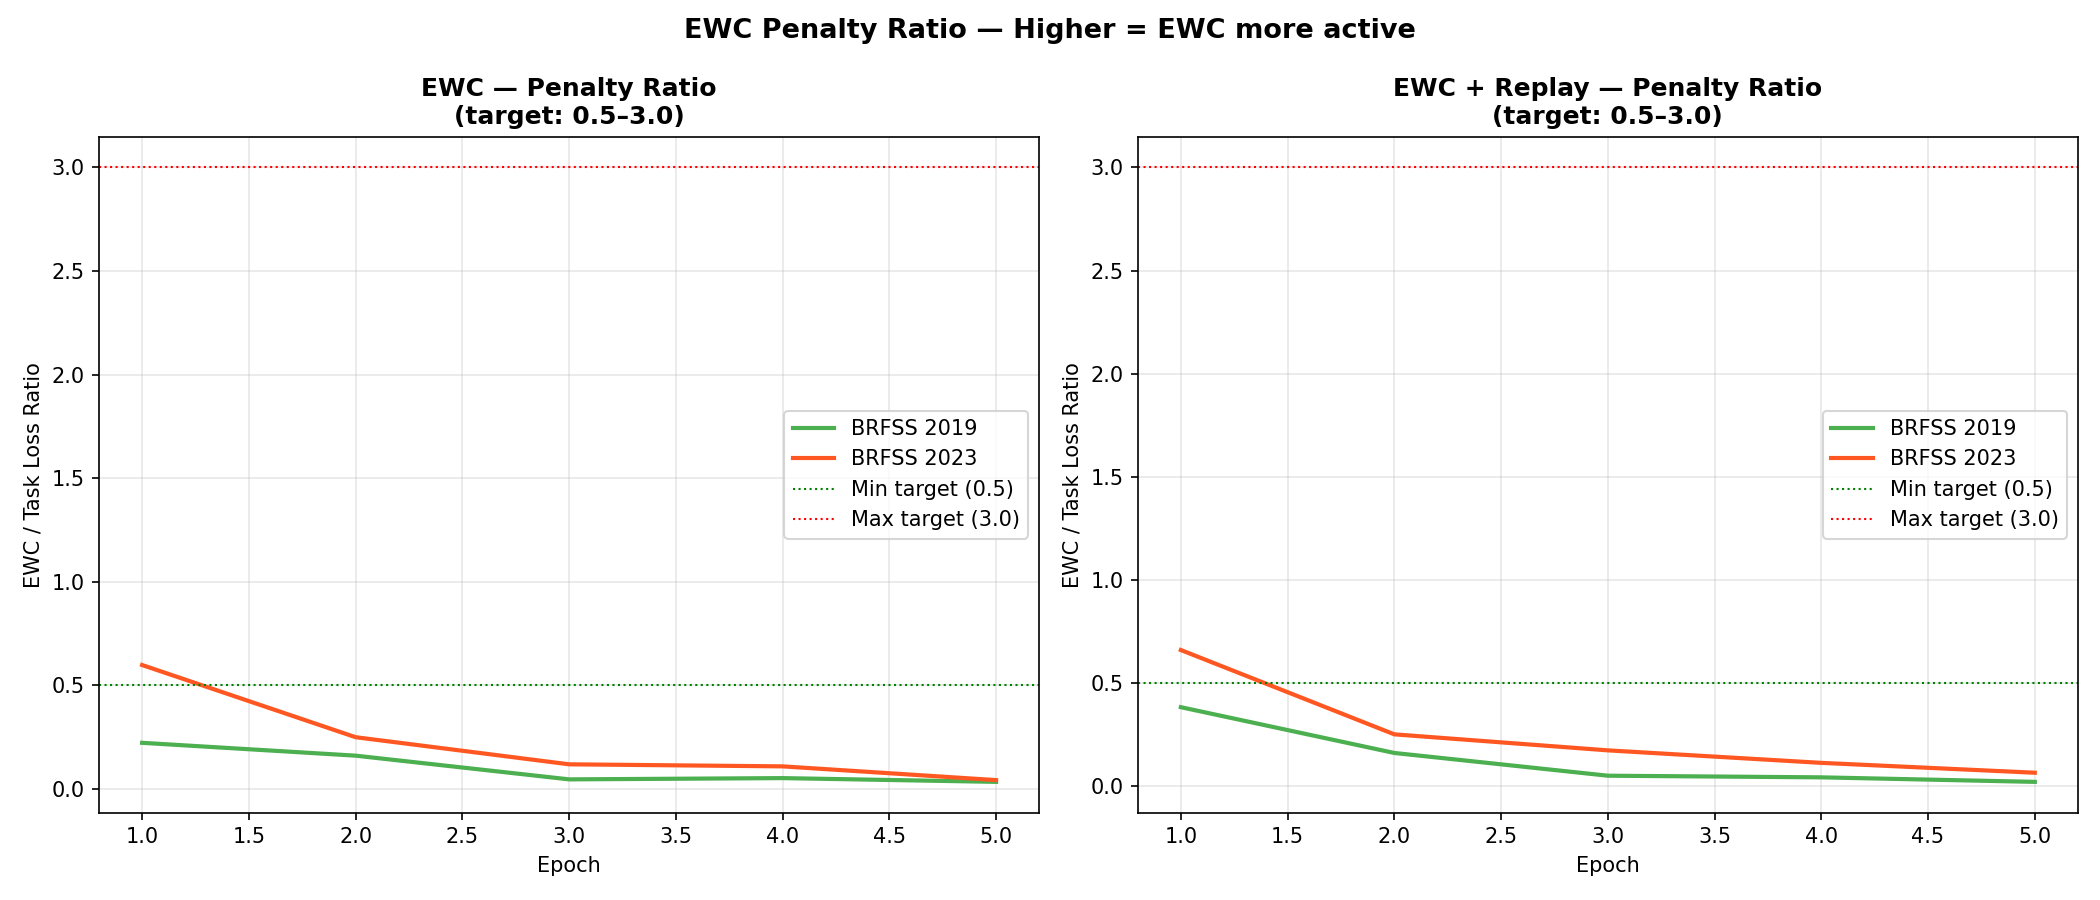
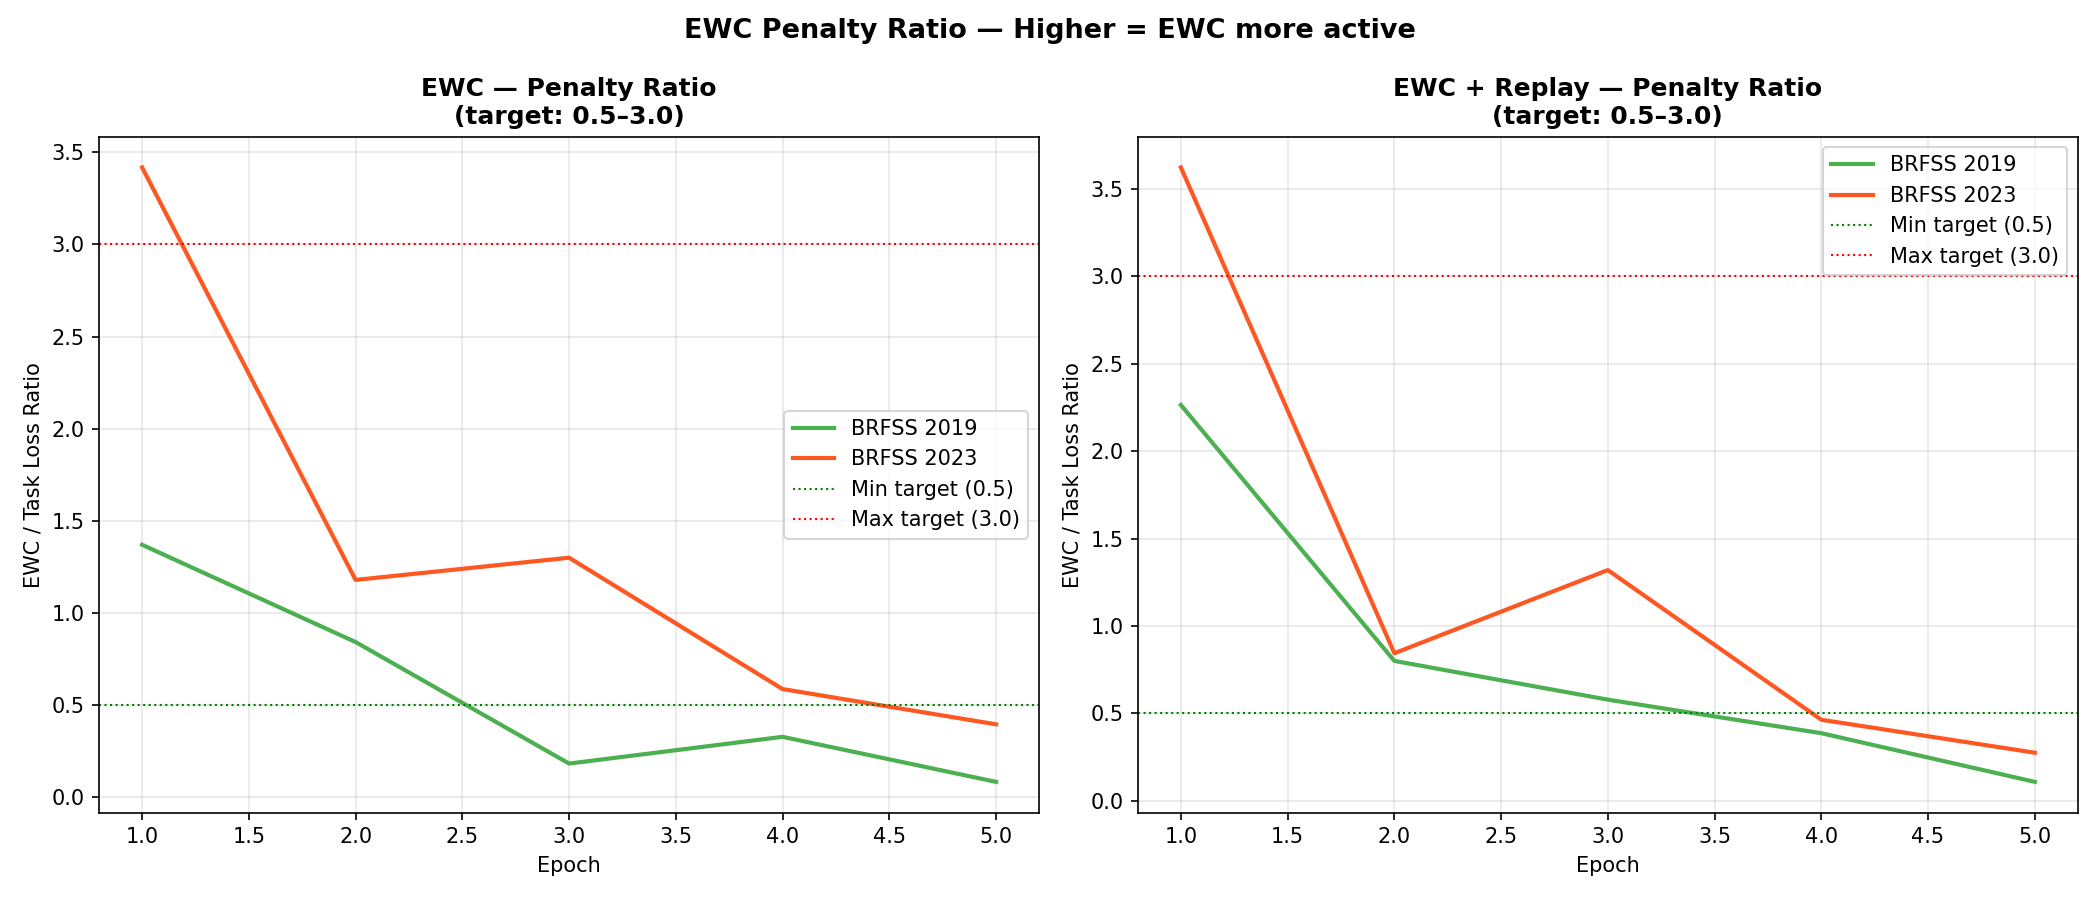
Re run with two lambda for teb and ft

diff --git a/main.py b/main.py
@@ -121,16 +121,23 @@ EPOCHS             = 5
 LR                 = 0.0015  # bumped alongside BATCH_SIZE (64->256, ~4x);
                             # Adam-family optimizers don't need full linear
                             # scaling like SGD, so ~1.5x rather than ~4x
-LAMBDA_EWC         = 500    # RESET from 500 — ewc.py's Fisher normalisation
-                          # changed from dividing by the global MAX to the
-                          # global MEAN (see ewc.py). That makes typical
-                          # Fisher values ~1000s of times larger than
-                          # before, so the old LAMBDA_EWC=500 (calibrated
-                          # for the old scale) would now massively
-                          # overshoot. 1 is a conservative starting point,
-                          # not a tuned value — check
-                          # 14_ewc_penalty_ratio.png after a run (target
-                          # 0.5-3.0) and adjust from here.
+FT_LAMBDA_EWC      = 500    # FT-Transformer's EWC strength. Checked against
+                          # 14_ewc_penalty_ratio.png — this value keeps
+                          # FT-Transformer's penalty ratio in the 0.5-3.0
+                          # target band.
+TABNET_LAMBDA_EWC  = 3000   # TabNet's own EWC strength (NEW — separate from
+                          # FT-Transformer's). Using FT_LAMBDA_EWC's value
+                          # here left TabNet's penalty ratio sitting well
+                          # below the 0.5 floor almost the whole run (see
+                          # results/tabnet/14_ewc_penalty_ratio.png before
+                          # this change) — TabNet's Fisher values are on a
+                          # different numeric scale (different architecture:
+                          # BatchNorm + attention masks vs FT-Transformer's
+                          # LayerNorm + self-attention), so the same lambda
+                          # doesn't transfer between the two models. 3000 is
+                          # a starting point, not a tuned value — rerun and
+                          # check 14_ewc_penalty_ratio.png for TabNet lands
+                          # in 0.5-3.0, and adjust from here if not.
 BATCH_SIZE         = 256  # was 64 — larger batches tend to train
                           # transformers more stably; LR bumped above to match
 MAX_FISHER_SAMPLES = 5000
@@ -199,7 +206,8 @@ print(f"  Tasks          : {TASK_NAMES}")
 print(f"  Pos weights    : ({POS_WEIGHT_MODE}) " +
       ", ".join(f"{n}={w.item():.2f}" for n, w in zip(TASK_NAMES, pos_weights)))
 print(f"\n  Models to run  : FT-Transformer, TabNet")
-print(f"  Lambda EWC     : {LAMBDA_EWC} | Replay samples: {REPLAY_SAMPLES_PER_TASK}")
+print(f"  Lambda EWC     : FT-Transformer={FT_LAMBDA_EWC}, TabNet={TABNET_LAMBDA_EWC}"
+      f" | Replay samples: {REPLAY_SAMPLES_PER_TASK}")
 
 
 # ═══════════════════════════════════════════════════════════
@@ -209,7 +217,7 @@ print(f"  Lambda EWC     : {LAMBDA_EWC} | Replay samples: {REPLAY_SAMPLES_PER_TA
 # can be run once per model (FT-Transformer, then TabNet), each saving
 # its own CSVs and graphs to its own output_dir.
 # ═══════════════════════════════════════════════════════════
-def run_pipeline(model_name, make_model, output_dir):
+def run_pipeline(model_name, make_model, output_dir, lambda_ewc):
     """
     Run Phases A-E for one model and save all results under output_dir.
 
@@ -218,11 +226,14 @@ def run_pipeline(model_name, make_model, output_dir):
                  initialised model for this model type
     output_dir : folder this model's CSVs and graphs are saved to, so
                  the two models' results never overwrite each other
+    lambda_ewc  : this model's own EWC strength (NEW — used to be a single
+                 shared LAMBDA_EWC for every model; see FT_LAMBDA_EWC /
+                 TABNET_LAMBDA_EWC above for why that's now per-model)
 
     Returns a dict of this model's final numbers, used later for the
     side-by-side summary printed at the very end of the script.
     """
-    section(f"MODEL: {model_name}")
+    section(f"MODEL: {model_name} (lambda_ewc={lambda_ewc})")
 
     # ═══════════════════════════════════════════════════════════
     # PHASE A — SEQUENTIAL WITHOUT EWC
@@ -294,7 +305,7 @@ def run_pipeline(model_name, make_model, output_dir):
 
             print(f"\n  [EWC] Training on {name} (EWC protecting {i} previous year(s))...")
             ewc_model, h = train_ewc(ewc_model, train_loaders[i],
-                                      ewc_objects, LAMBDA_EWC, EPOCHS, LR,
+                                      ewc_objects, lambda_ewc, EPOCHS, LR,
                                       pos_weight=pos_weights[i],
                                       warmup_epochs=WARMUP_EPOCHS, min_lr_ratio=MIN_LR_RATIO)
 
@@ -354,7 +365,7 @@ def run_pipeline(model_name, make_model, output_dir):
             replay_model, h = train_ewc_replay(
                 replay_model, train_loaders[i],
                 replay_ewc_objects, replay_buffer,
-                LAMBDA_EWC, EPOCHS, LR,
+                lambda_ewc, EPOCHS, LR,
                 pos_weight=pos_weights[i],
                 warmup_epochs=WARMUP_EPOCHS, min_lr_ratio=MIN_LR_RATIO,
             )
@@ -501,21 +512,23 @@ def run_pipeline(model_name, make_model, output_dir):
 # ─────────────────────────────────────────
 # RUN BOTH MODELS THROUGH THE SAME PIPELINE
 # ─────────────────────────────────────────
-# Each entry: (display name, zero-argument model-builder, output folder)
+# Each entry: (display name, zero-argument model-builder, output folder, lambda_ewc)
 MODELS = [
     ("FT-Transformer",
      lambda: init_model(input_size, EMBED_DIM, N_HEADS, N_LAYERS, DROPOUT,
                         FFN_DIM, ACTIVATION, HEAD_HIDDEN_DIM),
-     "results/fttransformer"),
+     "results/fttransformer",
+     FT_LAMBDA_EWC),
     ("TabNet",
      lambda: init_tabnet_model(input_size, TABNET_HIDDEN_DIM, TABNET_N_STEPS,
                                TABNET_GAMMA, TABNET_DROPOUT),
-     "results/tabnet"),
+     "results/tabnet",
+     TABNET_LAMBDA_EWC),
 ]
 
 summaries = {}
-for model_name, make_model, output_dir in MODELS:
-    summaries[model_name] = run_pipeline(model_name, make_model, output_dir)
+for model_name, make_model, output_dir, lambda_ewc in MODELS:
+    summaries[model_name] = run_pipeline(model_name, make_model, output_dir, lambda_ewc)
 
 
 # ─────────────────────────────────────────
@@ -524,7 +537,8 @@ for model_name, make_model, output_dir in MODELS:
 section("FINAL SUMMARY — FT-Transformer vs TabNet")
 
 print(f"\n  Temporal tasks : 2015 → 2019 → 2023")
-print(f"  Lambda         : {LAMBDA_EWC} | Fisher: normalised | Epochs: {EPOCHS}")
+print(f"  Lambda         : FT-Transformer={FT_LAMBDA_EWC}, TabNet={TABNET_LAMBDA_EWC}"
+      f" | Fisher: normalised | Epochs: {EPOCHS}")
 print(f"  Replay samples : {REPLAY_SAMPLES_PER_TASK} per task | Ratio: {REPLAY_RATIO}")
 
 for model_name, s in summaries.items():
@@ -557,12 +571,12 @@ for model_name, s in summaries.items():
 
 print(f"\n  Graph 14 guidance (EWC penalty ratio):")
 print(f"    Target: 0.5–3.0  (EWC balanced with task loss)")
-print(f"    < 0.1  → increase LAMBDA_EWC")
-print(f"    > 5.0  → reduce  LAMBDA_EWC")
+print(f"    < 0.1  → increase that model's lambda_ewc (FT_LAMBDA_EWC / TABNET_LAMBDA_EWC)")
+print(f"    > 5.0  → reduce  that model's lambda_ewc (FT_LAMBDA_EWC / TABNET_LAMBDA_EWC)")
 
 print(f"\n  Primary results are graphs 08b/10b (calibrated) — NOT 08/10 (threshold 0.5).")
 print(f"  Each model's 16 graphs and 6 CSV files were saved separately:")
-for model_name, _, output_dir in MODELS:
+for model_name, _, output_dir, _ in MODELS:
     print(f"    {model_name:<15} -> {output_dir}/")
 print("DONE.")
 print("=" * 65)
